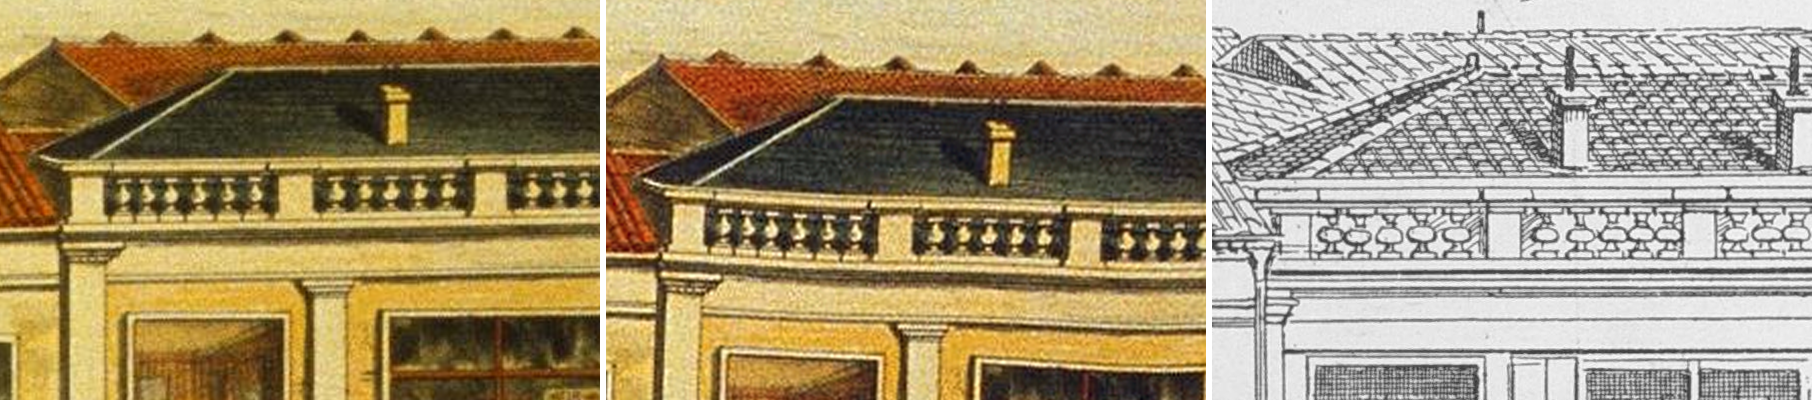
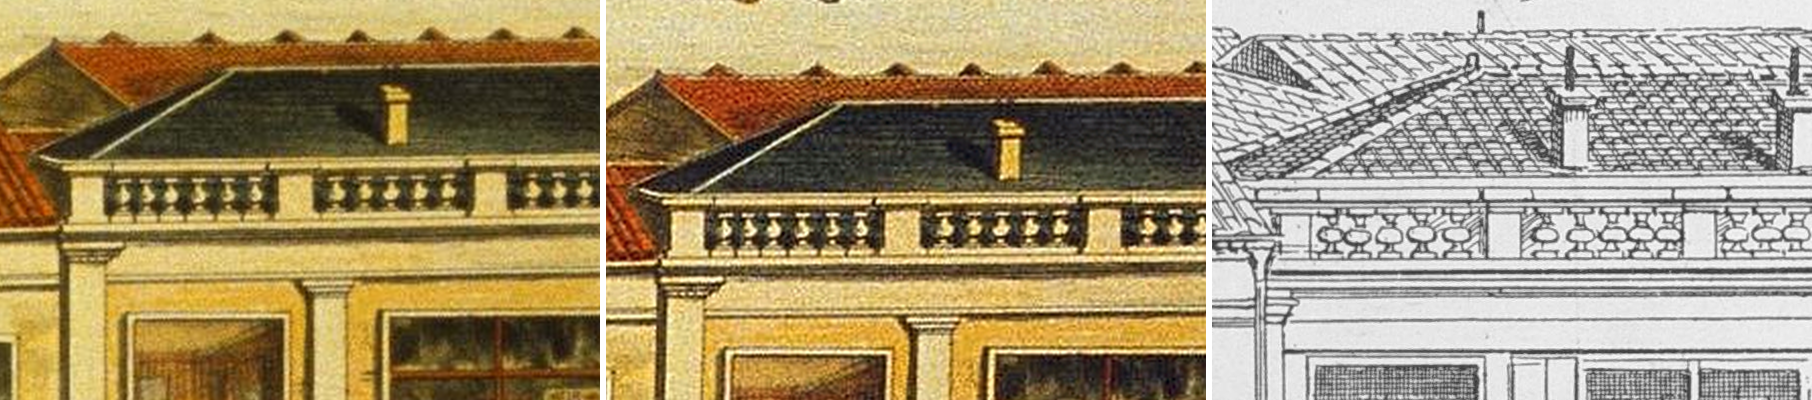
Garder les droites droites, et rendre à la couleur sa définition
UNE DROITE DE LA PIERRE DOIT RESTER DROITE. Le quatrième temps du
recalage posait les glissements mesurés sur une grille au pas de
quarante, comblait les trous par diffusion et remappait. Le recalage
tombait à moins de dix points — et les façades du tableau 14 sortaient
de travers. Un champ de glissement n'a aucune raison de respecter un
alignement : il suit ce qu'il mesure, tuile par tuile, et une tuile qui
se trompe de trois points tord tout son voisinage. Une planche gauchie
se voit ; dix points d'écart sur un gros plan, non.

LA PHOTOGRAPHIE D'UNE FEUILLE PLANE EST UNE HOMOGRAPHIE, et rien de
plus : l'objectif n'était pas d'aplomb, voilà tout. Huit coefficients
suffisent à le dire, et une homographie mène toute droite sur une
droite. On les ajuste sur les mêmes tuiles, en deux tours du large au
serré, et l'on s'arrête là : ce qui reste après elle n'est plus de la
perspective mais du gondolement du papier.

Vérifié en superposant le trait du fac-similé sur la couleur : il
tombe dessus, façade par façade, et l'écart au droit d'un numéro est le
même sur les deux couches — c'est donc bien la couleur qui est en
place.

LA QUALITÉ DU DETAIL SE RÈGLE PAR PLANCHE. Le fac-similé a quatre mille
cinq cents points de large : à soixante-quatorze, le WebP a de la place
et n'y perd rien de visible. L'original en couleur n'en a que deux mille
deux cents, et la même qualité le grumelait — le « PIANOS » du bâtiment
(10) du tableau 14 s'y lisait moins bien que sur le PDF d'origine.
[…]

diff --git a/index.html b/index.html
@@ -1101,7 +1101,7 @@ mark{background:rgba(180,85,45,.22);color:inherit;border-radius:2px}
 <div class="r p" id="t13-12-1" data-cle="t13-12-1"><div class="k io" lang="io"><a class="fol" href="tabeli.pdf#page=88" title="Folio 88 en la PDF">88</a>12. — Livante la balkono, me adiris la kafeerio di la hotelo por glutar <b>drinkajo</b> <button class="lupo" data-g="t13-apar-1" data-c="0.85326,0.43695,0.008619,0.009775" data-n="73" title="drinkajo" aria-expanded="false"><sup>(73)</sup></button>, ludante <b>biliardo-partio</b> <button class="lupo" data-g="t13-apar-1" data-c="0.918453,0.506028,0.009724,0.010101" data-n="75" title="biliardo-partio" aria-expanded="false"><sup>(75)</sup></button>. Senhalte me trairis la kafe-salono en qua multa konsumanti ludis per <b>shako</b> <button class="lupo" data-g="t13-apar-1" data-c="0.954254,0.738351,0.010387,0.010427" data-n="78" title="shako" aria-expanded="false"><sup>(78)</sup></button>, per <b>dami</b> <button class="lupo" data-g="t13-apar-1" data-c="0.961989,0.766048,0.010387,0.010427" data-n="79" title="dami" aria-expanded="false"><sup>(79)</sup></button>, per <b>domino-stoni</b> <button class="lupo" data-g="t13-apar-1" data-c="0.89547,0.73607,0.008619,0.010427" data-n="80" title="domino-stoni" aria-expanded="false"><sup>(80)</sup></button>, per <b>triktrako</b> <button class="lupo" data-g="t13-apar-1" data-c="0.889724,0.769632,0.006851,0.009775" data-n="81" title="triktrako" aria-expanded="false"><sup>(81)</sup></button> o per <b>karti</b> <button class="lupo" data-g="t13-apar-1" data-c="0.839116,0.722711,0.009503,0.009775" data-n="82" title="karti" aria-expanded="false"><sup>(82)</sup></button>, e me direte acensis la <b>biliardeyo</b> <button class="lupo" data-g="t13-apar-1" data-c="0.914696,0.433366,0.009724,0.010101" data-n="74" title="biliardeyo" aria-expanded="false"><sup>(74)</sup></button>.</div><div class="k tra" data-lg="fr" lang="fr"><a class="fol fd" href="tableaux.pdf#page=77" title="Folio 75 dans le PDF">75</a>12. — En quittant le balcon, je me rendis au café de l’hôtel pour prendre une <b>consommation</b> <button class="lupo" data-g="t13-apar-1" data-c="0.85326,0.43695,0.008619,0.009775" data-n="73" title="consommation" aria-expanded="false"><sup>(73)</sup></button>, en faisant une partie de <b>billard</b> <button class="lupo" data-g="t13-apar-1" data-c="0.918453,0.506028,0.009724,0.010101" data-n="75" title="billard" aria-expanded="false"><sup>(75)</sup></button>. Je traversai sans m’arrêter la salle du café où de nombreux consommateurs jouaient aux <b>échecs</b> <button class="lupo" data-g="t13-apar-1" data-c="0.954254,0.738351,0.010387,0.010427" data-n="78" title="échecs" aria-expanded="false"><sup>(78)</sup></button>, aux <b>dames</b> <button class="lupo" data-g="t13-apar-1" data-c="0.961989,0.766048,0.010387,0.010427" data-n="79" title="dames" aria-expanded="false"><sup>(79)</sup></button>, aux <b>dominos</b> <button class="lupo" data-g="t13-apar-1" data-c="0.89547,0.73607,0.008619,0.010427" data-n="80" title="dominos" aria-expanded="false"><sup>(80)</sup></button>, au <b>trictrac</b> <button class="lupo" data-g="t13-apar-1" data-c="0.889724,0.769632,0.006851,0.009775" data-n="81" title="trictrac" aria-expanded="false"><sup>(81)</sup></button> ou aux <b>cartes</b> <button class="lupo" data-g="t13-apar-1" data-c="0.839116,0.722711,0.009503,0.009775" data-n="82" title="cartes" aria-expanded="false"><sup>(82)</sup></button>, et je montai directement à la <b>salle de billard</b> <button class="lupo" data-g="t13-apar-1" data-c="0.914696,0.433366,0.009724,0.010101" data-n="74" title="salle de billard" aria-expanded="false"><sup>(74)</sup></button>.</div><div class="k tra vaka dif" data-lg="en" lang="en"></div><div class="k tra vaka dif" data-lg="es" lang="es"></div><div class="k tra vaka dif" data-lg="ru" lang="ru"></div><div class="k tra vaka dif" data-lg="zh" lang="zh"></div><div class="k tra vaka dif" data-lg="ar" lang="ar" dir="rtl"></div></div>
 <div class="r p" id="t13-13-1" data-cle="t13-13-1"><div class="k io" lang="io"><a class="fol" href="tabeli.pdf#page=88" title="Folio 88 en la PDF">88</a>13. — Kande la partio esis finita, me decensis a la teretajo e demandis de la garsono <b>kuverto</b> <button class="lupo" data-g="t13-apar-1" data-c="0.823425,0.784946,0.011492,0.010427" data-n="84" title="kuverto" aria-expanded="false"><sup>(84)</sup></button>, <b>papero</b> <button class="lupo" data-g="t13-apar-1" data-c="0.841989,0.761486,0.010608,0.010427" data-n="83" title="papero" aria-expanded="false"><sup>(83)</sup></button>, <b>postal-marko</b> <button class="lupo" data-g="t13-apar-1" data-c="0.839779,0.781036,0.009945,0.010427" data-n="85" title="postal-marko" aria-expanded="false"><sup>(85)</sup></button>, <b>plumo</b> <button class="lupo" data-g="t13-apar-1" data-c="0.848619,0.75725,0.010387,0.010427" data-n="87" title="plumo" aria-expanded="false"><sup>(87)</sup></button> ed <b>inko</b> <button class="lupo" data-g="t13-apar-1" data-c="0.845304,0.771913,0.010608,0.010427" data-n="86" title="inko" aria-expanded="false"><sup>(86)</sup></button> por skribar letro.</div><div class="k tra" data-lg="fr" lang="fr"><a class="fol fd" href="tableaux.pdf#page=77" title="Folio 75 dans le PDF">75</a>13. — Lorsque la partie fut finie, je redescendis au rez-de-chaussée et je demandai au garçon une <b>enveloppe</b> <button class="lupo" data-g="t13-apar-1" data-c="0.823425,0.784946,0.011492,0.010427" data-n="84" title="enveloppe" aria-expanded="false"><sup>(84)</sup></button>, du <b>papier</b> <button class="lupo" data-g="t13-apar-1" data-c="0.841989,0.761486,0.010608,0.010427" data-n="83" title="papier" aria-expanded="false"><sup>(83)</sup></button>, un <b>timbre-poste</b> <button class="lupo" data-g="t13-apar-1" data-c="0.839779,0.781036,0.009945,0.010427" data-n="85" title="timbre-poste" aria-expanded="false"><sup>(85)</sup></button>, une <b>plume</b> <button class="lupo" data-g="t13-apar-1" data-c="0.848619,0.75725,0.010387,0.010427" data-n="87" title="plume" aria-expanded="false"><sup>(87)</sup></button> et de l’<b>encre</b> <button class="lupo" data-g="t13-apar-1" data-c="0.845304,0.771913,0.010608,0.010427" data-n="86" title="encre" aria-expanded="false"><sup>(86)</sup></button> pour écrire une lettre.</div><div class="k tra vaka dif" data-lg="en" lang="en"></div><div class="k tra vaka dif" data-lg="es" lang="es"></div><div class="k tra vaka dif" data-lg="ru" lang="ru"></div><div class="k tra vaka dif" data-lg="zh" lang="zh"></div><div class="k tra vaka dif" data-lg="ar" lang="ar" dir="rtl"></div></div>
 <div class="r p" id="t13-13-2" data-cle="t13-13-2"><div class="k io" lang="io"><a class="fol" href="tabeli.pdf#page=88" title="Folio 88 en la PDF">88</a>Pose me advokis <b>veturisto</b> <button class="lupo" data-g="t13-apar-1" data-c="0.879116,0.823721,0.010387,0.010427" data-n="92" title="veturisto" aria-expanded="false"><sup>(92)</sup></button> di qua la <b>veturo</b> <button class="lupo" data-g="t13-apar-1" data-c="0.90232,0.871619,0.009945,0.010427" data-n="88" title="veturo" aria-expanded="false"><sup>(88)</sup></button> esis haltinta avan la kafeerio. Me questionis lu pri la preco segun la hori od un kuro, e, kande ni konkordis pri la preco, il apertis a me la <b>vetur-pordo</b> <button class="lupo" data-g="t13-apar-1" data-c="0.926851,0.896383,0.010829,0.014011" data-n="89" title="vetur-pordo" aria-expanded="false"><sup>(89)</sup></button> ed instalis me. Il riacensis sur la <b>sidilo</b> <button class="lupo" data-g="t13-apar-1" data-c="0.866077,0.869664,0.00663,0.010101" data-n="91" title="sidilo" aria-expanded="false"><sup>(91)</sup></button>, rapide startigis la kavali per <b>flogeto</b> <button class="lupo" data-g="t13-apar-1" data-c="0.855249,0.787227,0.010387,0.010427" data-n="93" title="flogeto" aria-expanded="false"><sup>(93)</sup></button> e ni departis por promeno charmanta. <span class="fil"></span></div><div class="k tra" data-lg="fr" lang="fr"><a class="fol fd" href="tableaux.pdf#page=77" title="Folio 75 dans le PDF">75</a>Puis j’appelai un <b>cocher</b> <button class="lupo" data-g="t13-apar-1" data-c="0.879116,0.823721,0.010387,0.010427" data-n="92" title="cocher" aria-expanded="false"><sup>(92)</sup></button> dont la <b>voiture</b> <button class="lupo" data-g="t13-apar-1" data-c="0.90232,0.871619,0.009945,0.010427" data-n="88" title="voiture" aria-expanded="false"><sup>(88)</sup></button> était arrêtée en face du café. Je lui demandai le prix de l’heure et de la course, et, lorsque nous fûmes d’accord sur le prix, il m’ouvrit la <b>portière</b> <button class="lupo" data-g="t13-apar-1" data-c="0.926851,0.896383,0.010829,0.014011" data-n="89" title="portière" aria-expanded="false"><sup>(89)</sup></button> et je m’installai dans la voiture. Il remonta sur son <b>siège</b> <button class="lupo" data-g="t13-apar-1" data-c="0.866077,0.869664,0.00663,0.010101" data-n="91" title="siège" aria-expanded="false"><sup>(91)</sup></button>, enleva ses chevaux d’un léger coup de <b>fouet</b> <button class="lupo" data-g="t13-apar-1" data-c="0.855249,0.787227,0.010387,0.010427" data-n="93" title="fouet" aria-expanded="false"><sup>(93)</sup></button> et nous partîmes faire une délicieuse promenade. <span class="fil"></span></div><div class="k tra vaka dif" data-lg="en" lang="en"></div><div class="k tra vaka dif" data-lg="es" lang="es"></div><div class="k tra vaka dif" data-lg="ru" lang="ru"></div><div class="k tra vaka dif" data-lg="zh" lang="zh"></div><div class="k tra vaka dif" data-lg="ar" lang="ar" dir="rtl"></div></div>
-<figure class="gravuro" data-cle="t14-apar-1" data-detalo="gravuri/t14-apar-1-detalo.webp?v=695872" data-dl="2238" data-dh="1506"><img src="gravuri/t14-apar-1-vido.webp?v=245990" alt="" srcset="gravuri/t14-apar-1-vido.webp?v=245990 1200w, gravuri/t14-apar-1-detalo.webp?v=695872 2238w" sizes="(max-width:900px) calc(100vw - 64px), min(calc(100vw - 314px), 1246px)" loading="lazy" decoding="async" width="1200" height="808"></figure>
+<figure class="gravuro" data-cle="t14-apar-1" data-detalo="gravuri/t14-apar-1-detalo.webp?v=1435066" data-dl="2238" data-dh="1506"><img src="gravuri/t14-apar-1-vido.webp?v=248522" alt="" srcset="gravuri/t14-apar-1-vido.webp?v=248522 1200w, gravuri/t14-apar-1-detalo.webp?v=1435066 2238w" sizes="(max-width:900px) calc(100vw - 64px), min(calc(100vw - 314px), 1246px)" loading="lazy" decoding="async" width="1200" height="808"></figure>
 <div class="r apar" id="t14-apar-1" data-cle="t14-apar-1" data-tete="TABELO No 14 · La Strado. — La Komercisti."><div class="k io" lang="io"><a class="fol" href="tabeli.pdf#page=89" title="Folio 89 en la PDF">89</a><span id="t14-apar-1-l0" class="ln lg" data-korpo="15.0pt" data-rolo="nom">TABELO N<sup>o</sup> 14</span><span class="fil"></span></div><div class="k tra" data-lg="fr" lang="fr"><a class="fol fd" href="tableaux.pdf#page=78" title="Folio 76 dans le PDF">76</a><span class="ln lg" data-korpo="15.0pt" data-rolo="nom">TABLEAU N<sup>o</sup> 14</span><span class="fil"></span></div><div class="k tra vaka dif" data-lg="en" lang="en"></div><div class="k tra vaka dif" data-lg="es" lang="es"></div><div class="k tra vaka dif" data-lg="ru" lang="ru"></div><div class="k tra vaka dif" data-lg="zh" lang="zh"></div><div class="k tra vaka dif" data-lg="ar" lang="ar" dir="rtl"></div></div>
 <div class="r sub" id="t14-tit-1" data-cle="t14-tit-1"><div class="k io" lang="io"><a class="fol" href="tabeli.pdf#page=89" title="Folio 89 en la PDF">89</a><span class="pk" data-korpo="11.4pt" data-rolo="tit">La Strado. — La Komercisti.</span></div><div class="k tra" data-lg="fr" lang="fr"><a class="fol fd" href="tableaux.pdf#page=78" title="Folio 76 dans le PDF">76</a><span class="ln lg" data-korpo="11.4pt" data-rolo="tit">La Rue. — Les Commerçants.</span></div><div class="k tra vaka dif" data-lg="en" lang="en"></div><div class="k tra vaka dif" data-lg="es" lang="es"></div><div class="k tra vaka dif" data-lg="ru" lang="ru"></div><div class="k tra vaka dif" data-lg="zh" lang="zh"></div><div class="k tra vaka dif" data-lg="ar" lang="ar" dir="rtl"></div></div>
 <div class="r p" id="t14-01-1" data-cle="t14-01-1"><div class="k io" lang="io"><a class="fol" href="tabeli.pdf#page=89" title="Folio 89 en la PDF">89</a>1. — Mea amiko Ioannes, qua habitas la ruro, venis pasar tri dii en mea familio. <b>Til</b> lore il ne havabis l’okaziono vidar grand urbo; pro to ni uzas nia omna jorni promenante, e me explikas a lu to quon il ne konocas.</div><div class="k tra" data-lg="fr" lang="fr"><a class="fol fd" href="tableaux.pdf#page=78" title="Folio 76 dans le PDF">76</a>1. — Mon ami Jean, qui habite la campagne, est venu passer trois jours dans ma famille. Jusqu’à présent il n’avait pas encore eu l’occasion de voir une ville importante, aussi nous employons toutes nos journées à nous promener et je lui explique ce qu’il ne connaît pas.</div><div class="k tra vaka dif" data-lg="en" lang="en"></div><div class="k tra vaka dif" data-lg="es" lang="es"></div><div class="k tra vaka dif" data-lg="ru" lang="ru"></div><div class="k tra vaka dif" data-lg="zh" lang="zh"></div><div class="k tra vaka dif" data-lg="ar" lang="ar" dir="rtl"></div></div>
@@ -1173,7 +1173,7 @@ mark{background:rgba(180,85,45,.22);color:inherit;border-radius:2px}
 <div class="r sub" id="t15-tit-8" data-cle="t15-tit-8"><div class="k io" lang="io"><a class="fol" href="tabeli.pdf#page=99" title="Folio 99 en la PDF">99</a><span class="pk" data-korpo="10.2pt" data-rolo="sekc">Atencez la policisto !</span></div><div class="k tra vaka" data-lg="fr" lang="fr"></div><div class="k tra vaka dif" data-lg="en" lang="en"></div><div class="k tra vaka dif" data-lg="es" lang="es"></div><div class="k tra vaka dif" data-lg="ru" lang="ru"></div><div class="k tra vaka dif" data-lg="zh" lang="zh"></div><div class="k tra vaka dif" data-lg="ar" lang="ar" dir="rtl"></div></div>
 <div class="r p" id="t15-17-1" data-cle="t15-17-1"><div class="k io" lang="io"><a class="fol" href="tabeli.pdf#page=99" title="Folio 99 en la PDF">99</a>17. — La puero qua vendas <b>alio</b> <button class="lupo" data-g="t15-apar-1" data-c="0.529699,0.812871,0.013963,0.011221" data-n="101" title="alio" aria-expanded="false"><sup>(101)</sup></button> ed <b>onyoni,</b> tre bone savas, ke anke lu, ne darfas vendar sua vari proxim la merkato. Il fugas, kurante kun risko renversor la korbo de <b>krabi,</b> <b>kankri</b> e <b>kreveti</b> di la <b>vendisto</b> <button class="lupo" data-g="t15-apar-1" data-c="0.572695,0.762706,0.013298,0.011221" data-n="102" title="vendisto" aria-expanded="false"><sup>(102)</sup></button> di <b>langusti</b> e <b>homardi.</b></div><div class="k tra" data-lg="fr" lang="fr"><a class="fol fd" href="tableaux.pdf#page=87" title="Folio 85 dans le PDF">85</a>17. — Le petit garçon qui vend de l’<b>ail</b> <button class="lupo" data-g="t15-apar-1" data-c="0.529699,0.812871,0.013963,0.011221" data-n="101" title="ail" aria-expanded="false"><sup>(101)</sup></button> et des <b>oignons</b> sait bien que lui non plus ne doit pas vendre sa marchandise auprès du marché. Il s’enfuit en courant, au risque de renverser le panier de <b>crabes,</b> d’<b>écrevisses</b> et de <b>crevettes</b> du <b>marchand</b> <button class="lupo" data-g="t15-apar-1" data-c="0.572695,0.762706,0.013298,0.011221" data-n="102" title="marchand" aria-expanded="false"><sup>(102)</sup></button> de <b>langoustes</b> et de <b>homards.</b></div><div class="k tra vaka dif" data-lg="en" lang="en"></div><div class="k tra vaka dif" data-lg="es" lang="es"></div><div class="k tra vaka dif" data-lg="ru" lang="ru"></div><div class="k tra vaka dif" data-lg="zh" lang="zh"></div><div class="k tra vaka dif" data-lg="ar" lang="ar" dir="rtl"></div></div>
 <div class="r p" id="t15-18-1" data-cle="t15-18-1"><div class="k io" lang="io"><a class="fol" href="tabeli.pdf#page=100" title="Folio 100 en la PDF">100</a>18. — Omni agitas su e bruisegas; ma to ne impedas audar klare la voco dil kolportanta <b>vitristo</b> <button class="lupo" data-g="t15-apar-1" data-c="0.667775,0.945875,0.015736,0.011221" data-n="103" title="vitristo" aria-expanded="false"><sup>(103)</sup></button>, nek la klamo dil <b>karbonisto</b> <button class="lupo" data-g="t15-apar-1" data-c="0.733821,0.932013,0.014406,0.011221" data-n="104" title="karbonisto" aria-expanded="false"><sup>(104)</sup></button> qua jus livis por kelka instanti sua chareto por livrar <b>karbona sakedo</b> <button class="lupo" data-g="t15-apar-1" data-c="0.752216,0.882508,0.015514,0.011221" data-n="105" title="karbona sakedo" aria-expanded="false"><sup>(105)</sup></button>. <span class="fil"></span></div><div class="k tra" data-lg="fr" lang="fr"><a class="fol fd" href="tableaux.pdf#page=87" title="Folio 85 dans le PDF">85</a>18. — Tout ce monde s’agite et fait un bruit effroyable, mais cela n’empêche pas d’entendre distinctement l’appel du <b>vitrier</b> <button class="lupo" data-g="t15-apar-1" data-c="0.667775,0.945875,0.015736,0.011221" data-n="103" title="vitrier" aria-expanded="false"><sup>(103)</sup></button> ambulant, ni le cri du <b>charbonnier</b> <button class="lupo" data-g="t15-apar-1" data-c="0.733821,0.932013,0.014406,0.011221" data-n="104" title="charbonnier" aria-expanded="false"><sup>(104)</sup></button> qui vient de quitter un moment sa petite charrette pour livrer un <b>sac</b> <button class="lupo" data-g="t15-apar-1" data-c="0.752216,0.882508,0.015514,0.011221" data-n="105" title="sac" aria-expanded="false"><sup>(105)</sup></button> de <b>charbon.</b> <span class="fil"></span></div><div class="k tra vaka dif" data-lg="en" lang="en"></div><div class="k tra vaka dif" data-lg="es" lang="es"></div><div class="k tra vaka dif" data-lg="ru" lang="ru"></div><div class="k tra vaka dif" data-lg="zh" lang="zh"></div><div class="k tra vaka dif" data-lg="ar" lang="ar" dir="rtl"></div></div>
-<figure class="gravuro" data-cle="t16-apar-1" data-detalo="gravuri/t16-apar-1-detalo.webp?v=765654" data-dl="2184" data-dh="1460"><img src="gravuri/t16-apar-1-vido.webp?v=291754" alt="" srcset="gravuri/t16-apar-1-vido.webp?v=291754 1200w, gravuri/t16-apar-1-detalo.webp?v=765654 2184w" sizes="(max-width:900px) calc(100vw - 64px), min(calc(100vw - 314px), 1246px)" loading="lazy" decoding="async" width="1200" height="802"></figure>
+<figure class="gravuro" data-cle="t16-apar-1" data-detalo="gravuri/t16-apar-1-detalo.webp?v=1520500" data-dl="2184" data-dh="1460"><img src="gravuri/t16-apar-1-vido.webp?v=297742" alt="" srcset="gravuri/t16-apar-1-vido.webp?v=297742 1200w, gravuri/t16-apar-1-detalo.webp?v=1520500 2184w" sizes="(max-width:900px) calc(100vw - 64px), min(calc(100vw - 314px), 1246px)" loading="lazy" decoding="async" width="1200" height="802"></figure>
 <div class="r apar" id="t16-apar-1" data-cle="t16-apar-1" data-tete="TABELO No 16 · La Granda Magazino. — La Bazaro. — La Ludili."><div class="k io" lang="io"><a class="fol" href="tabeli.pdf#page=101" title="Folio 101 en la PDF">101</a><span id="t16-apar-1-l0" class="ln lg" data-korpo="15.0pt" data-rolo="nom">TABELO N<sup>o</sup> 16</span> <span id="t16-apar-1-l1" class="pk" data-korpo="13.2pt" data-rolo="tit" data-kunligita="1">La Granda Magazino. — La Bazaro.</span> <span id="t16-apar-1-l2" class="pk" data-korpo="13.2pt" data-rolo="tit" data-kunligita="1"> — La Ludili.</span><span class="fil"></span></div><div class="k tra" data-lg="fr" lang="fr"><a class="fol fd" href="tableaux.pdf#page=88" title="Folio 86 dans le PDF">86</a><span class="ln lg" data-korpo="15.0pt" data-rolo="nom">TABLEAU N<sup>o</sup> 16</span> <span class="ln lg" data-korpo="11.4pt" data-rolo="tit">Le Grand Magasin. — Le Bazar. — Les Jouets.</span><span class="fil"></span></div><div class="k tra vaka dif" data-lg="en" lang="en"></div><div class="k tra vaka dif" data-lg="es" lang="es"></div><div class="k tra vaka dif" data-lg="ru" lang="ru"></div><div class="k tra vaka dif" data-lg="zh" lang="zh"></div><div class="k tra vaka dif" data-lg="ar" lang="ar" dir="rtl"></div></div>
 <div class="r p" id="t16-01-1" data-cle="t16-01-1"><div class="k io" lang="io"><a class="fol" href="tabeli.pdf#page=101" title="Folio 101 en la PDF">101</a>1. — La nov yaro proximeskas. La granda magazini preparis sua estaleyi de <b>ludili</b> <button class="lupo" data-g="t16-apar-1" data-c="0.618638,0.98352,0.002644,0.010218" data-n="1" title="ludili" aria-expanded="false"><sup>(1)</sup></button> e novyaral donaci.</div><div class="k tra" data-lg="fr" lang="fr"><a class="fol fd" href="tableaux.pdf#page=88" title="Folio 86 dans le PDF">86</a>1. — Le nouvel an approche. Les grands magasins ont préparé leurs étalages de <b>jouets</b> <button class="lupo" data-g="t16-apar-1" data-c="0.618638,0.98352,0.002644,0.010218" data-n="1" title="jouets" aria-expanded="false"><sup>(1)</sup></button> et de <b>cadeaux</b> pour les <b>étrennes.</b></div><div class="k tra vaka dif" data-lg="en" lang="en"></div><div class="k tra vaka dif" data-lg="es" lang="es"></div><div class="k tra vaka dif" data-lg="ru" lang="ru"></div><div class="k tra vaka dif" data-lg="zh" lang="zh"></div><div class="k tra vaka dif" data-lg="ar" lang="ar" dir="rtl"></div></div>
 <div class="r p" id="t16-01-2" data-cle="t16-01-2"><div class="k io" lang="io"><a class="fol" href="tabeli.pdf#page=101" title="Folio 101 en la PDF">101</a>Me demandis de mea avulo, ke il duktez me aden la bazaro por vidar ta bel expozeyo, ed il konsentis lo.</div><div class="k tra" data-lg="fr" lang="fr"><a class="fol fd" href="tableaux.pdf#page=88" title="Folio 86 dans le PDF">86</a>J’ai demandé à mon grand-père de me conduire au bazar pour voir cette belle exposition et il y a consenti.</div><div class="k tra vaka dif" data-lg="en" lang="en"></div><div class="k tra vaka dif" data-lg="es" lang="es"></div><div class="k tra vaka dif" data-lg="ru" lang="ru"></div><div class="k tra vaka dif" data-lg="zh" lang="zh"></div><div class="k tra vaka dif" data-lg="ar" lang="ar" dir="rtl"></div></div>

diff --git a/outils/kolorigo.py b/outils/kolorigo.py
@@ -34,14 +34,21 @@
 #      passer. On mesure donc, sur une grille, ou chaque morceau veut
 #      aller, et l'on ajuste la similitude qui les mene tous.
 #
-#   4. LE PLIAGE. Il en reste, et au tableau 16 ils atteignent
-#      soixante-dix points aux angles : la feuille photographiee
-#      n'etait ni plane ni d'aplomb. Cela ne s'ecrit pas en six
-#      coefficients — on a essaye un polynome du second degre, il
-#      laissait vingt points. On pose donc les glissements mesures sur
-#      une grille, on comble les trous par diffusion, on floute, et
-#      l'on remappe. Le champ est doux par construction : il ne peut
-#      pas inventer un pli plus fin que sa maille.
+#   4. L'HOMOGRAPHIE. Il reste des ecarts, et au tableau 16 ils
+#      atteignent soixante-dix points aux angles : l'objectif n'etait
+#      pas d'aplomb sur la feuille. C'est de la perspective, et la
+#      perspective s'ecrit en huit coefficients — une homographie, qui
+#      mene toute droite sur une droite.
+#
+#      ON A ESSAYE UN CHAMP DE GLISSEMENT, et il faut dire pourquoi on
+#      l'a retire : glissements mesures sur une grille au pas de
+#      quarante, trous combles par diffusion, remappage. Le recalage
+#      tombait a moins de dix points — et les facades du tableau 14
+#      sortaient de travers. Un champ n'a aucune raison de respecter
+#      un alignement : il suit ce qu'il mesure, tuile par tuile, et une
+#      tuile qui se trompe de trois points tord tout son voisinage. Une
+#      planche gauchie se voit ; dix points d'ecart sur un gros plan,
+#      non. On garde donc les droites, et l'on rend les ecarts.
 #
 #  LE FLOU DE DOUZE POINTS, aux temps 2 a 4, n'est pas une negligence :
 #  c'est la seule echelle a laquelle les deux tirages se ressemblent.
@@ -89,9 +96,10 @@ KOVRI = RACINE / "originali" / "kovri"
 
 BLANKESO = 0.40   # part du jaune du papier qu'on retire
 VIVECO = 1.15     # ranimation de la teinte
-NETESO = 0.55     # force du masque flou
+NETESO = 0.65     # force du masque flou
 MARGE = O.MARGE_FILET
 FLOU = 12.0       # l'echelle a laquelle les deux tirages se ressemblent
+QUAL_KOLORO = 92  # qualite WebP du detail, plus haute qu'ailleurs
 
 
 def tirar(pdf):
@@ -219,12 +227,10 @@ def afini(T, col, gp, sigma=FLOU, marge=90, cases=(5, 7), R=280, seuil=0.35):
     return T2.astype(np.float32), len(t), co
 
 
-# ON PLIE DEUX FOIS, DU LARGE AU SERRE. Le premier tour se mesure sur
-# de grandes tuiles floutees a douze points : c'est robuste, et cela
-# rattrape la perspective et le gondolement. Il reste vingt points
-# d'ecart en moyenne — mesure faite sur les numeros eux-memes, qui sont
-# le seul juge qui compte. Le second tour, sur des tuiles trois fois
-# plus petites et un flou de cinq points, descend a moins de dix.
+# ON AJUSTE DEUX FOIS, DU LARGE AU SERRE. Le premier tour se mesure
+# sur de grandes tuiles floutees a douze points : c'est robuste, et
+# cela rattrape la perspective. Le second, sur des tuiles trois fois
+# plus petites et un flou de cinq points, resserre.
 #
 # On ne va pas plus fin. Sous cinq points de flou les deux tirages ne
 # se ressemblent plus assez pour se reconnaitre — l'un n'a que le
@@ -233,46 +239,46 @@ PLIADI = ((FLOU, 70, (7, 10), 190, 0.35),
           (5.0, 40, (12, 16), 110, 0.30))
 
 
-def plier(T, col, gp, pas=40, verbeux=True):
-    """Le champ de glissement qui reste, en points de la planche."""
+# UNE DROITE DE LA PIERRE DOIT RESTER DROITE. Premiere version, on
+# posait les glissements mesures sur une grille au pas de quarante, on
+# comblait les trous par diffusion et l'on remappait : le recalage
+# tombait a moins de dix points, et les facades du tableau 14 sortaient
+# de travers. Un champ de glissement n'a aucune raison de respecter
+# l'alignement — il suit ce qu'il mesure, tuile par tuile, et une tuile
+# qui se trompe de trois points tord tout son voisinage.
+#
+# LA PHOTOGRAPHIE D'UNE FEUILLE PLANE EST UNE HOMOGRAPHIE, et rien de
+# plus : l'objectif n'etait pas d'aplomb, voila tout. Huit coefficients
+# suffisent a le dire, et une homographie mene toute droite sur une
+# droite. On ajuste donc les huit sur les memes tuiles, et l'on
+# s'arrete la : ce qui reste apres elle n'est plus de la perspective
+# mais du gondolement du papier, et le redresser couterait plus cher
+# qu'il ne rapporte.
+def projekti(T, col, gp, verbeux=True):
+    """L'homographie qui reste, en points de la planche."""
     HN, LN = gp.shape
-    gh, gw = HN // pas + 2, LN // pas + 2
-    champ = np.zeros((2, gh, gw), np.float32)
+    H = np.eye(3, dtype=np.float32)
     for sigma, marge, cases, R, seuil in PLIADI:
-        pose = rendre(col, T, champ, (LN, HN), 1.0, cv2.INTER_LINEAR)
+        pose = rendre(col, T, H, (LN, HN), 1.0, cv2.INTER_LINEAR)
         t = tuili(pose, gp, sigma, marge, cases, R, seuil)
         if len(t) < 12:
             if verbeux:
                 print(f"  flou {sigma:.0f} : {len(t)} tuiles seulement, "
                       f"on passe")
             continue
-        f = np.zeros((2, gh, gw), np.float32)
-        pn = np.zeros((gh, gw), np.float32)
-        for x, y, dx, dy, _ in t:
-            j, i = int(y / pas), int(x / pas)
-            f[0, j, i] += dx
-            f[1, j, i] += dy
-            pn[j, i] += 1
-        plein = pn > 0
-        f[0][plein] /= pn[plein]
-        f[1][plein] /= pn[plein]
-        # LES TROUS SE COMBLENT PAR DIFFUSION : chaque tour remplace un
-        # point vide par la moyenne de ses voisins. Le champ est doux
-        # par construction — il ne peut pas inventer un pli plus fin que
-        # sa maille — et c'est ce qui l'empeche de suivre une tuile qui
-        # s'est trompee.
-        for _ in range(900):
-            for k in (0, 1):
-                m = cv2.blur(f[k], (3, 3))
-                f[k][~plein] = m[~plein]
-        for k in (0, 1):
-            f[k] = cv2.GaussianBlur(f[k], (0, 0), 1.6)
-        champ += f
+        ici = np.float32([(q[0], q[1]) for q in t])
+        la = np.float32([(q[0] + q[2], q[1] + q[3]) for q in t])
+        M, bon = cv2.findHomography(la, ici, cv2.RANSAC, 8.0)
+        if M is None:
+            continue
+        H = (M @ H).astype(np.float32)
         if verbeux:
             d = np.array([(q[2], q[3]) for q in t], float)
-            print(f"  pliage au flou {sigma:.0f} : {len(t)} tuiles, "
-                  f"reprise de {np.abs(d).max():.0f} points au plus")
-    return champ
+            n = int(bon.sum()) if bon is not None else len(t)
+            print(f"  ajustement au flou {sigma:.0f} : {len(t)} tuiles, "
+                  f"{n} retenues, reprise de {np.abs(d).max():.0f} "
+                  f"points au plus")
+    return H
 
 
 # ON A ESSAYE DE PLIER SUR LES NUMEROS EUX-MEMES, et c'est pire.
@@ -302,13 +308,14 @@ def plier(T, col, gp, pas=40, verbeux=True):
 # il est a un vingtieme du centre. On s'en tient la.
 
 
-def rendre(col, T, champ, taille, echelo, interp=cv2.INTER_CUBIC):
+def rendre(col, T, H, taille, echelo, interp=cv2.INTER_LANCZOS4):
     LT, HT = taille
     ys, xs = np.mgrid[0:HT, 0:LT].astype(np.float32)
-    # de la sortie vers la planche, en defaisant le pliage
+    # de la sortie vers la planche, en defaisant l'ajustement projectif
     px, py = xs / echelo, ys / echelo
-    px -= cv2.resize(champ[0], (LT, HT), interpolation=cv2.INTER_CUBIC)
-    py -= cv2.resize(champ[1], (LT, HT), interpolation=cv2.INTER_CUBIC)
+    w = H[2, 0] * px + H[2, 1] * py + H[2, 2]
+    px, py = ((H[0, 0] * px + H[0, 1] * py + H[0, 2]) / w,
+              (H[1, 0] * px + H[1, 1] * py + H[1, 2]) / w)
     # de la planche vers l'original
     Ti = cv2.invertAffineTransform(T)
     sx = Ti[0, 0] * px + Ti[0, 1] * py + Ti[0, 2]
@@ -352,32 +359,33 @@ def kolorigi(cle, pdf, essai=False, **kw):
     print(f"  {Path(pdf).name} : {col.shape[1]} x {col.shape[0]} points")
     T, gp = poser(cle, col)
     HN, LN = gp.shape
-    champ = plier(T, col, gp)
+    H = projekti(T, col, gp)
     # LA DEFINITION DE SORTIE EST CELLE DE L'ORIGINAL. L'echelle de la
     # similitude dit de combien la photographie a ete grandie pour
     # tomber sur le fac-simile ; on rend l'inverse.
     k = float(np.hypot(T[0, 0], T[1, 0]))
     echelo = 1.0 / k
     LT, HT = round(LN * echelo), round(HN * echelo)
-    out = restaurar(rendre(col, T, champ, (LT, HT), echelo), **kw)
+    out = restaurar(rendre(col, T, H, (LT, HT), echelo), **kw)
     print(f"  rendu {LT} x {HT} points, la planche en faisant {LN} x {HN}")
     KOVRI.mkdir(parents=True, exist_ok=True)
     dest = KOVRI / f"{cle}-koloro.png"
     Image.fromarray(out).save(dest)
     print(f"  ecrit dans {dest}")
     if essai:
-        bande(cle, col, T, champ, out, gp)
+        bande(cle, col, T, H, out, gp)
     return dest
 
 
-def bande(cle, col, T, champ, out, gp, boite=None):
+def bande(cle, col, T, H, out, gp, boite=None):
     """L'original brut, le rendu, le fac-simile : la meme portion."""
     HN, LN = gp.shape
     if boite is None:
         x, y = round(0.72 * LN), round(0.37 * HN)
         boite = (x, y, x + 600, y + 400)
     x0, y0, x1, y1 = boite
-    brut = rendre(col, T, np.zeros_like(champ), (LN, HN), 1.0)
+    brut = rendre(col, T, np.eye(3, dtype=np.float32),
+                  (LN, HN), 1.0)
     o = np.asarray(Image.fromarray(out).resize((LN, HN), Image.LANCZOS))
     trio = [brut[y0:y1, x0:x1], o[y0:y1, x0:x1],
             np.dstack([gp[y0:y1, x0:x1].astype(np.uint8)] * 3)]
@@ -396,7 +404,7 @@ def main(args):
     dest = kolorigi(cle, pdf, essai="--essai" in args)
     if "--essai" in args:
         return
-    O.servir(cle, dest)
+    O.servir(cle, dest, qual_detalo=QUAL_KOLORO)
     cat = RACINE / "gravuri" / "gravuri.json"
     tout = json.loads(cat.read_text(encoding="utf-8"))
     tout[cle]["koloro"] = True

diff --git a/outils/originali.py b/outils/originali.py
@@ -741,13 +741,21 @@ QUAL_VIDO = 74
 QUAL_DETALO = 74
 
 
-def servir(cle, neta, verbeux=True):
+# LA QUALITE DU DETAIL SE REGLE PAR PLANCHE. Le fac-simile a quatre
+# mille cinq cents points de large : a soixante-quatorze, le WebP a de
+# la place et n'y perd rien de visible. L'original en couleur n'en a
+# que deux mille deux cents, et la meme qualite le grumelait — le
+# « PIANOS » du batiment (10) du tableau 14 s'y lisait moins bien que
+# sur le PDF d'origine. Moins de points, plus de qualite : le fichier
+# reste plus leger que celui d'un fac-simile.
+def servir(cle, neta, verbeux=True, qual_detalo=None):
     """Les deux WebP, tires de la planche d'origine nettoyee."""
     im = Image.open(neta).convert("RGB")
     GRAVURI = RACINE / "gravuri"
     taille = {}
     for nom, largeur, qualite in (("vido", LARGE_VIDO, QUAL_VIDO),
-                                  ("detalo", im.width, QUAL_DETALO)):
+                                  ("detalo", im.width,
+                                   qual_detalo or QUAL_DETALO)):
         h = round(largeur * im.height / im.width)
         petite = im if largeur == im.width else im.resize((largeur, h),
                                                           Image.LANCZOS)
